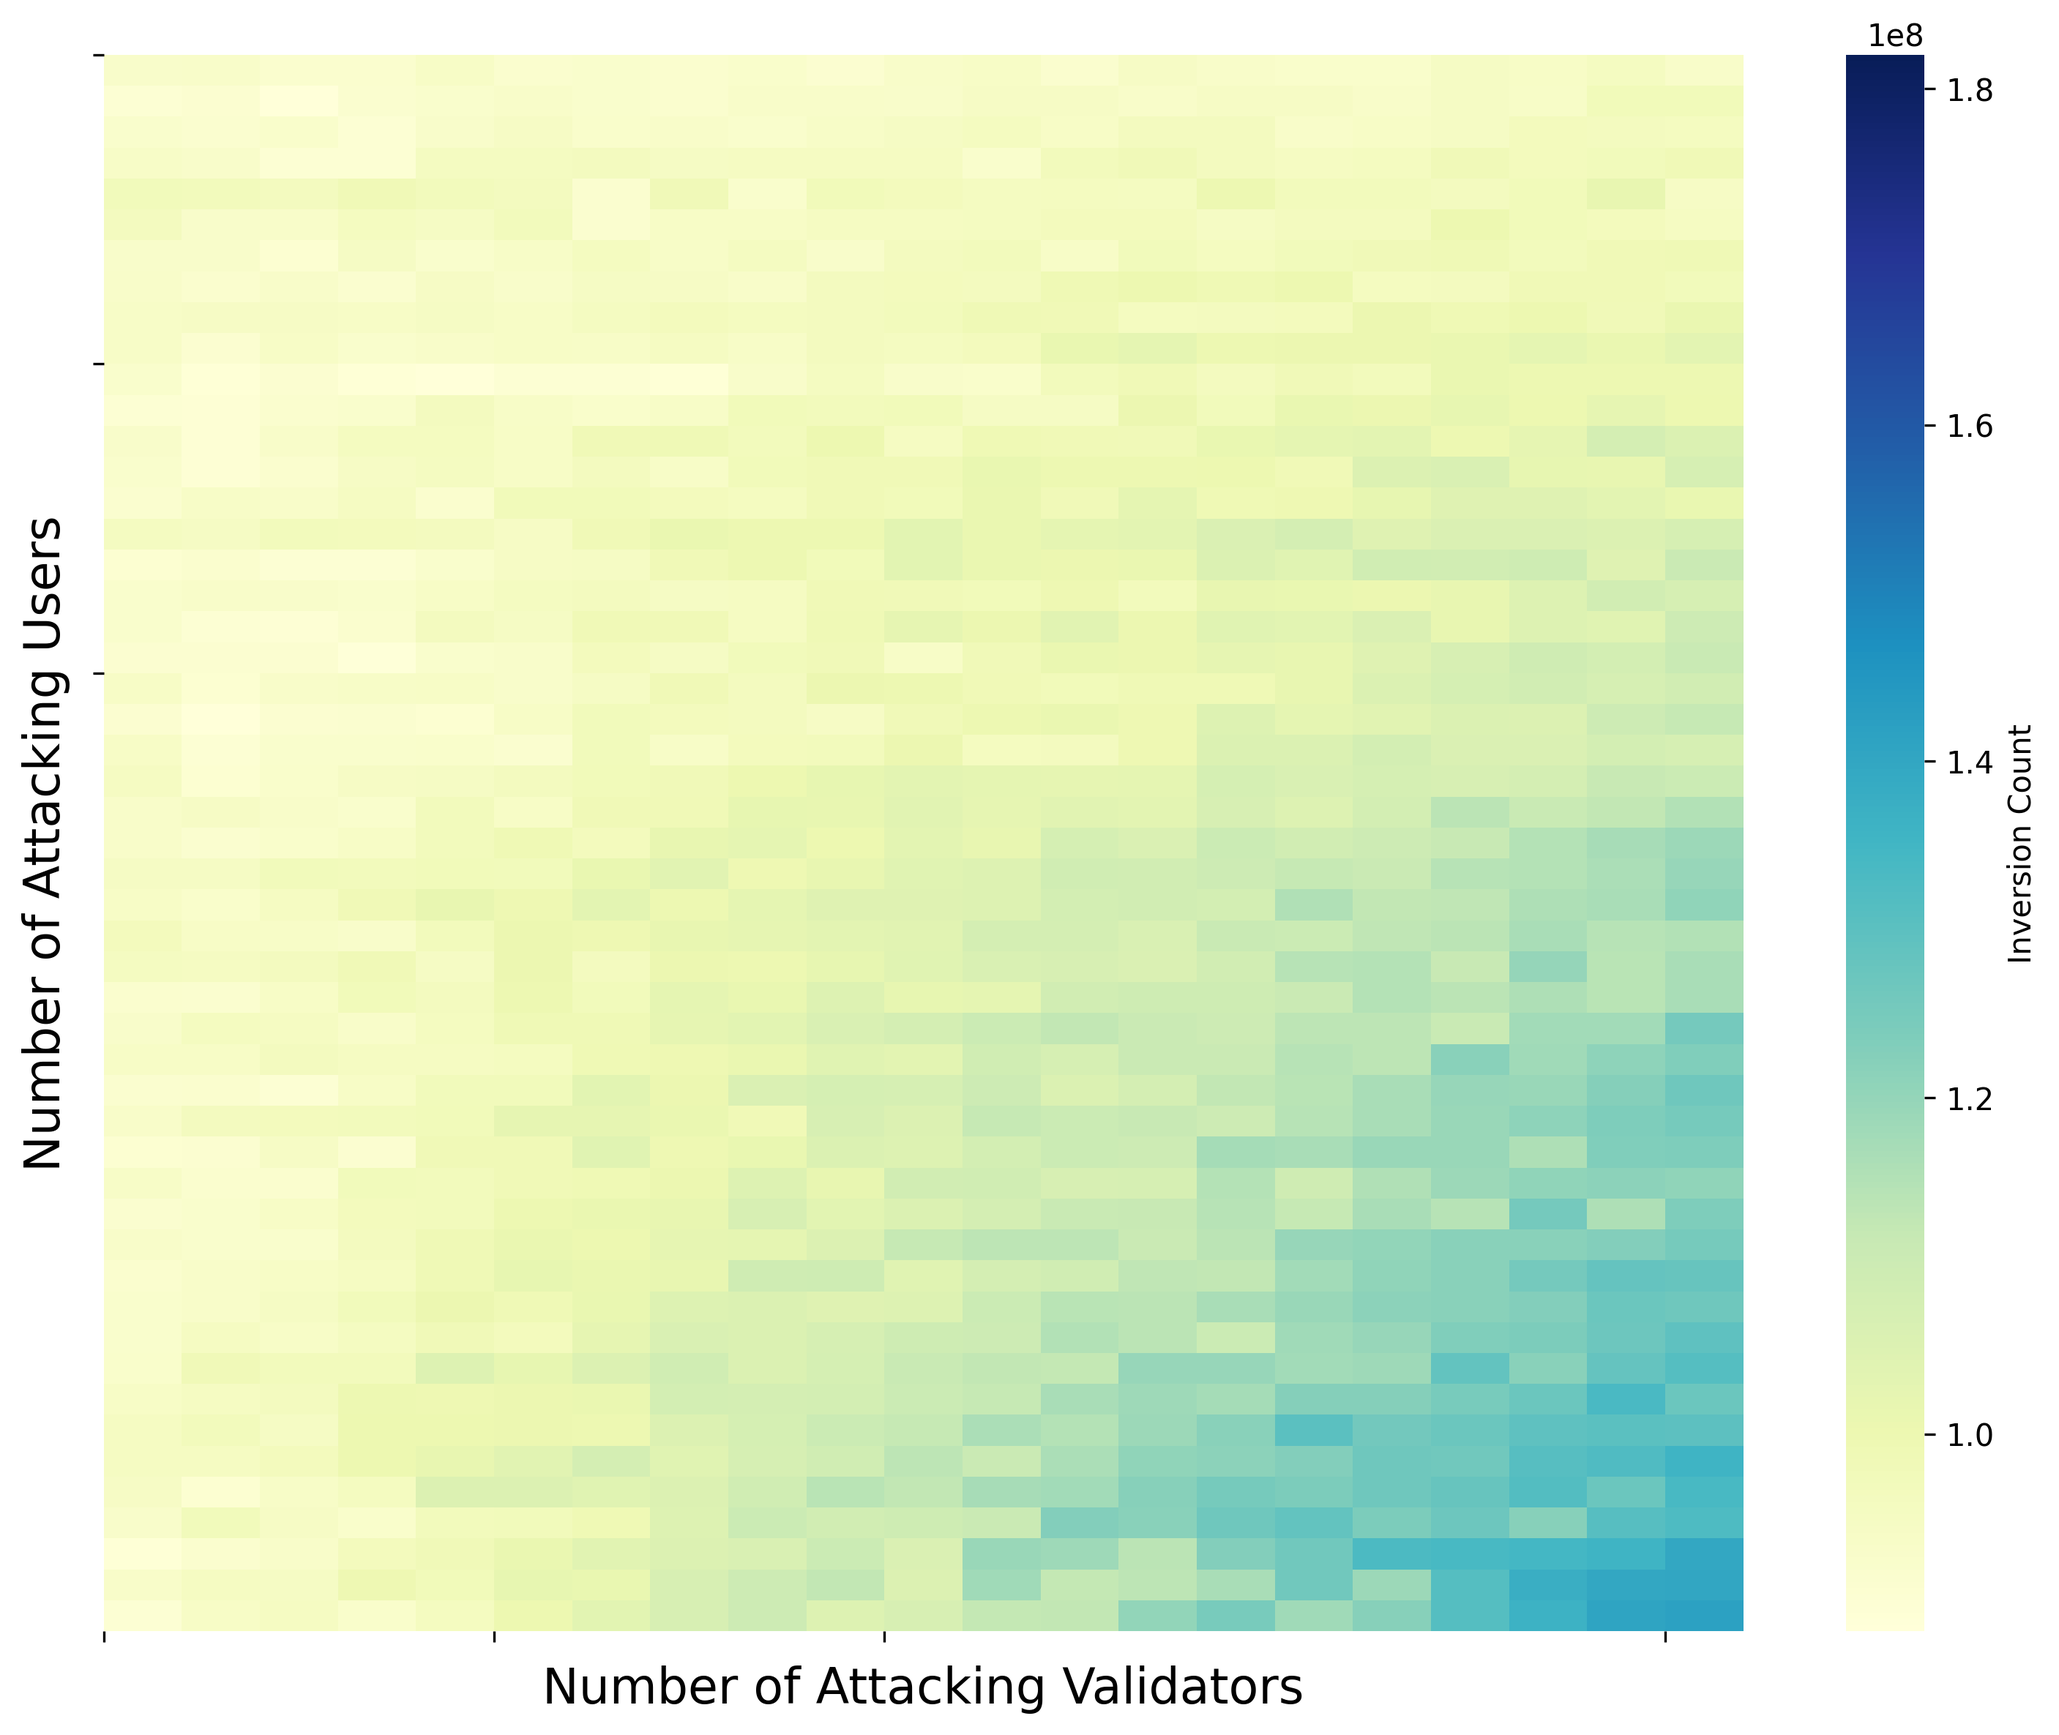
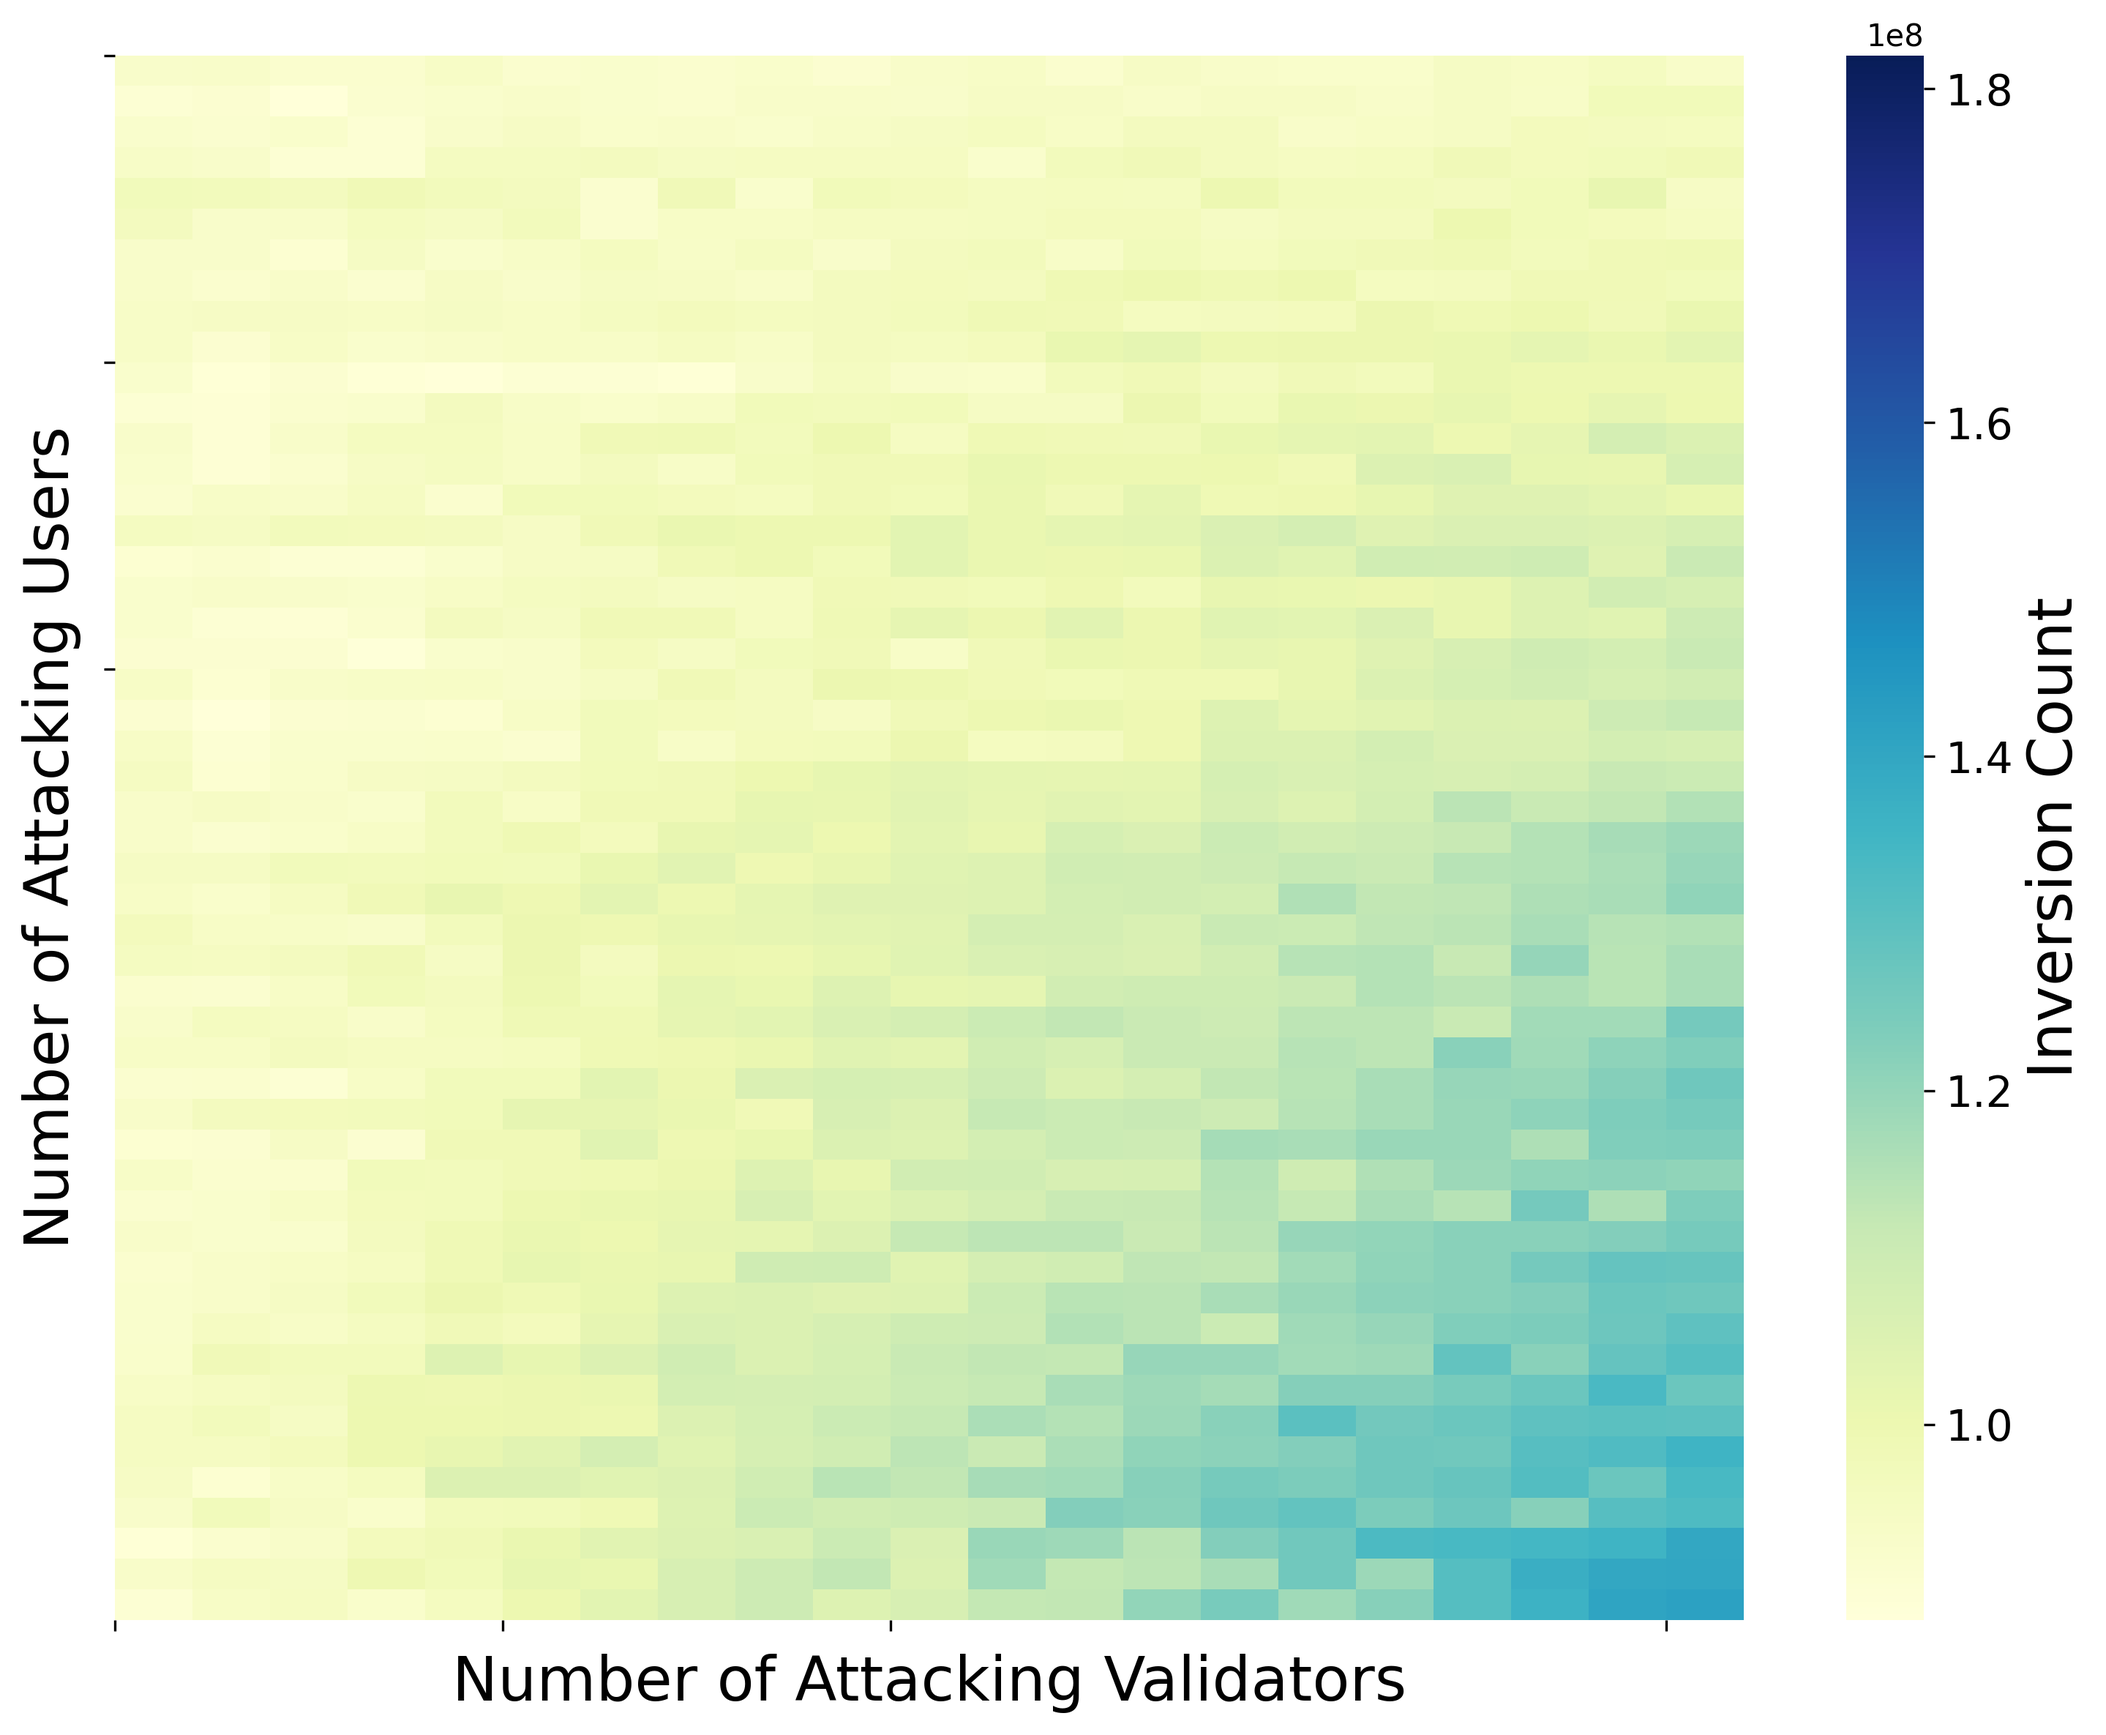
font

diff --git a/plots/ss/tx_order.py b/plots/ss/tx_order.py
@@ -81,7 +81,8 @@ def process_file(file_path):
     sorted_blocks = [transactions_by_block[block] for block in sorted(transactions_by_block.keys())]
     
     # Compute inversion count
-    return calculate_inversion_count(sorted_blocks)
+    inversion_count = calculate_inversion_count(sorted_blocks)
+    return inversion_count
 
 def process_all_files(data_folder):
     """
@@ -121,10 +122,16 @@ def plot_heatmap(results, title, vmin, vmax, output_folder, x_label):
 
     plt.figure(figsize=(10, 8))
     sns.heatmap(df, annot=False, fmt=".0f", cmap="YlGnBu", cbar_kws={'label': "Inversion Count"}, vmin=vmin, vmax=vmax)
-    plt.xlabel(x_label, fontsize=16)
-    plt.ylabel("Number of Attacking Users", fontsize=16)
-    plt.xticks([0, 5, 10, 20], fontsize=14)
-    plt.yticks([0, 10, 20], fontsize=14)
+    plt.xlabel(x_label, fontsize=20)
+    plt.ylabel("Number of Attacking Users", fontsize=20)
+    plt.xticks([0, 5, 10, 20], fontsize=16)
+    plt.yticks([0, 10, 20], fontsize=16)
+    
+    # Increase font size of color bar label and ticks
+    cbar = plt.gca().collections[0].colorbar
+    cbar.set_label("Inversion Count", size=20)
+    cbar.ax.tick_params(labelsize=14)
+
     plt.tight_layout()
     
     output_path = os.path.join(output_folder, f"{title.replace(' ', '_').lower()}.png")
@@ -137,11 +144,11 @@ if __name__ == "__main__":
     pbs_data_folder = 'data/same_seed/pbs_visible80'
     output_folder = 'figures/ss'
     os.makedirs(output_folder, exist_ok=True)
-    
+
     # Calculate inversion counts for each configuration for PoS and PBS
     pos_results = process_all_files(pos_data_folder)
     pbs_results = process_all_files(pbs_data_folder)
-    
+
     # Determine shared color scale limits
     all_inversion_counts = [count for user_counts in pos_results.values() for count in user_counts.values()]
     all_inversion_counts += [count for user_counts in pbs_results.values() for count in user_counts.values()]
